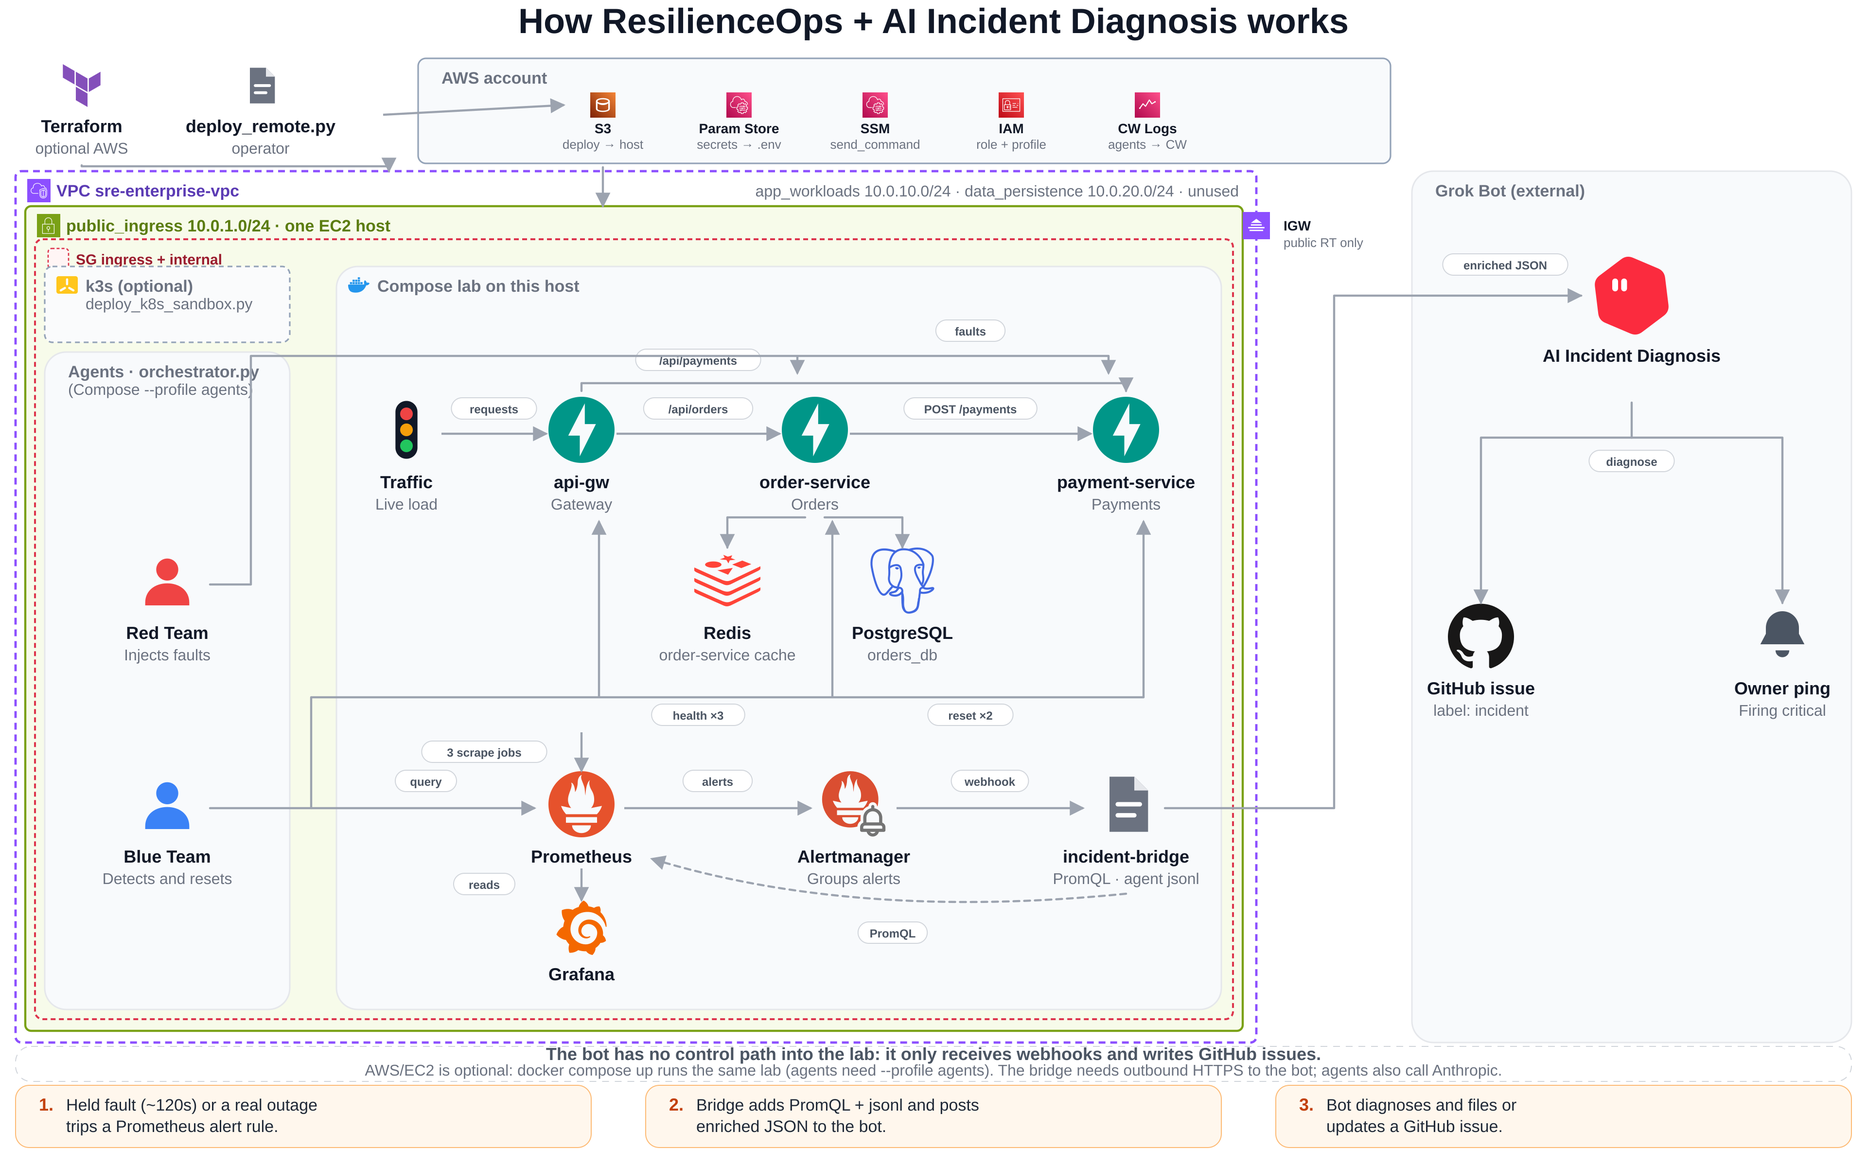
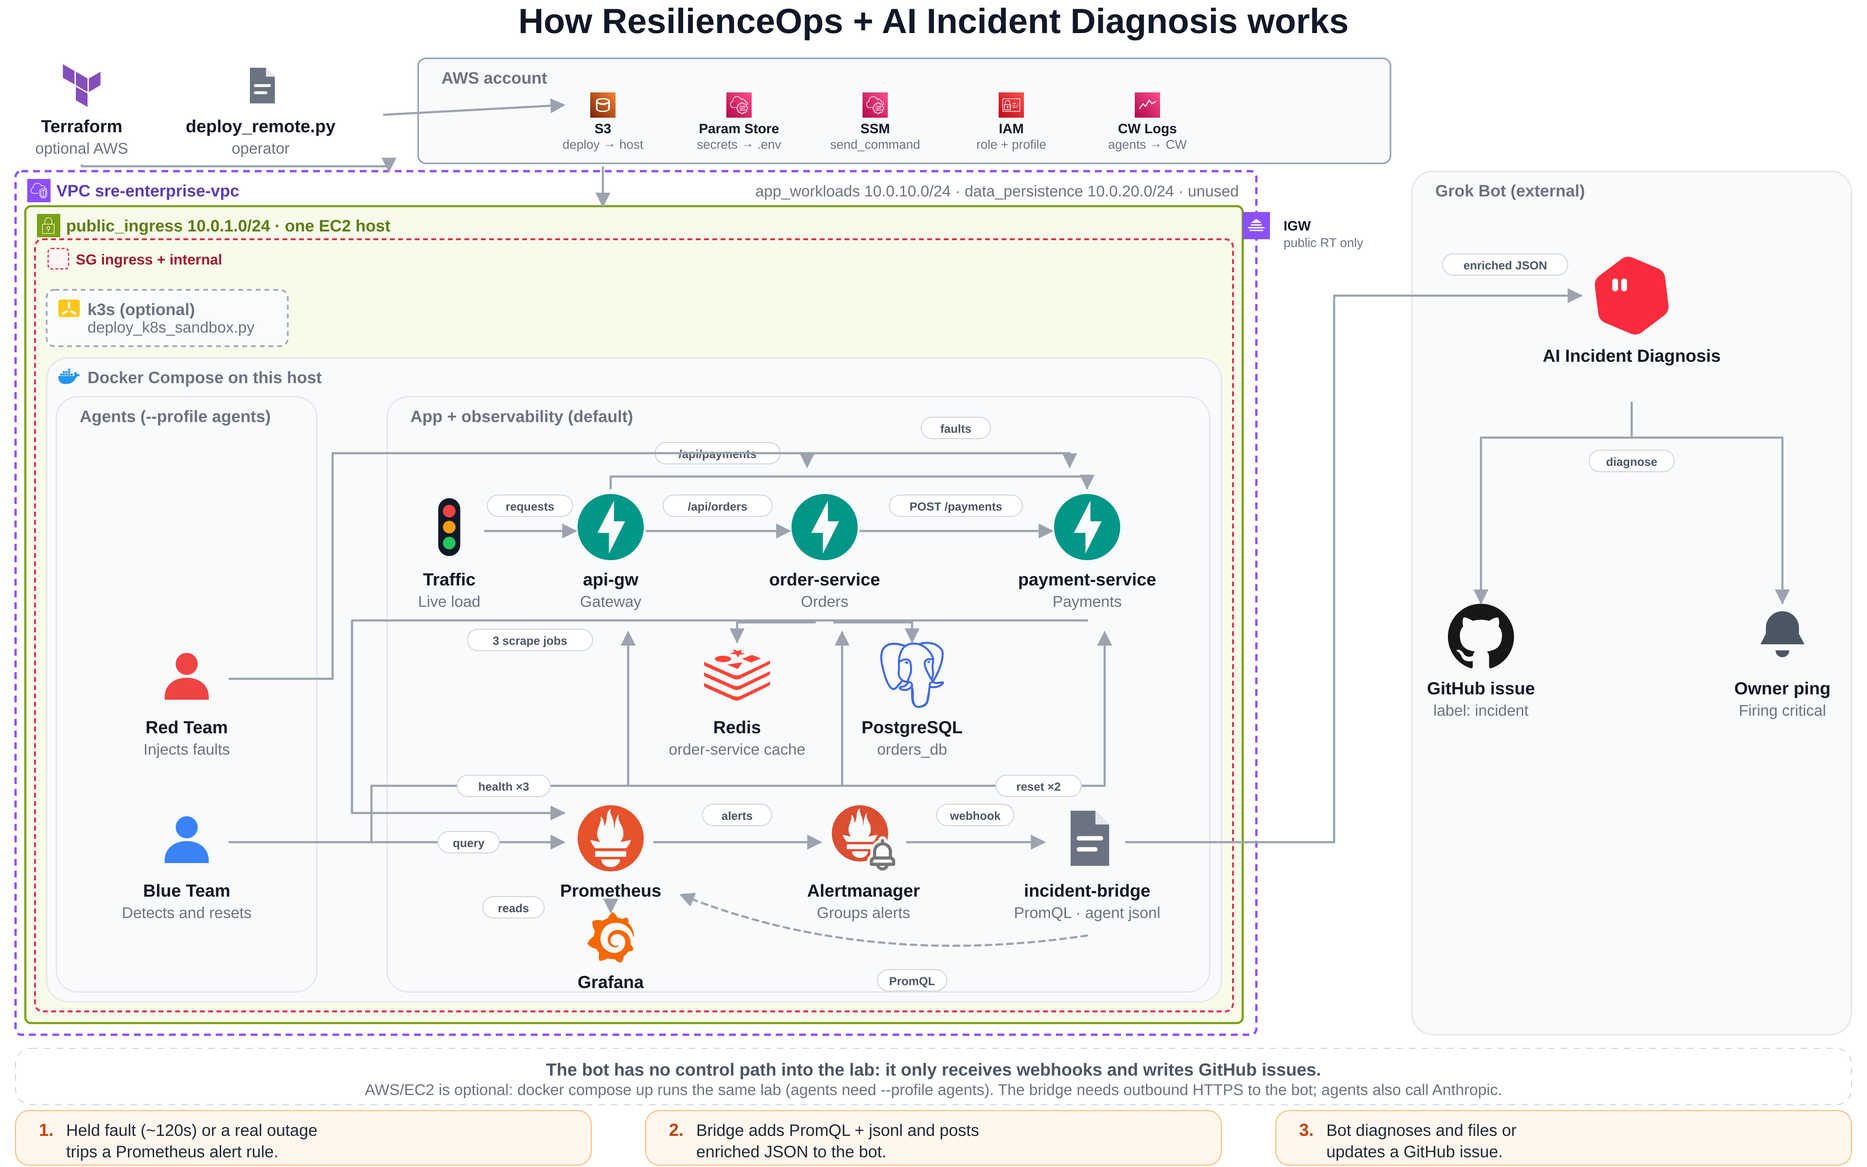
Fix remaining 2x architecture-figure overlaps and Compose nesting.
Route Red faults through the Agents/App gutter so the line never
crosses the Agents title. Nest Agents inside Docker Compose next to
App + observability. Draw scrape jobs from the three services, not the
Blue health bus. Pad the footer inside its dashed box and add gap
under the SG label.

diff --git a/scripts/build_architecture.py b/scripts/build_architecture.py
@@ -385,8 +385,10 @@ def build() -> str:
     s3_x, param_x, ssm_x, iam_x, cw_x = 620, 760, 900, 1040, 1180
     acct_node_y = 108  # icons; labels sit below inside the strip
 
-    vpc_x, vpc_y, vpc_w, vpc_h = 16, 176, 1276, 896  # right 1292, bottom 1072
-    bot_x, bot_y, bot_w, bot_h = 1452, 176, 452, 896  # gutter 160px for IGW labels
+    # VPC is 8px shorter than 896 so the footer box can sit *below* the
+    # purple stroke with padding, instead of kissing the VPC border.
+    vpc_x, vpc_y, vpc_w, vpc_h = 16, 176, 1276, 888  # right 1292, bottom 1064
+    bot_x, bot_y, bot_w, bot_h = 1452, 176, 452, 888  # gutter 160px for IGW labels
     col_bottom = vpc_y + vpc_h
 
     g_bot = group(bot_x, bot_y, bot_w, bot_h, "Grok Bot (external)")
@@ -419,38 +421,56 @@ def build() -> str:
         icon="aws-sg", style="sg",
     )
 
-    nested_y = sg_y + 28
-    nested_h = sg_y + sg_h - nested_y - 10
-    k3s_x, k3s_w = sg_x + 10, 252
-    lab_x = k3s_x + k3s_w + 48
-    lab_w = sg_x + sg_w - 12 - lab_x
-    # Two alley spines. Red climbs inside k3s (left). Blue climbs in the
-    # gutter (right). Horizontal segments never share an x with the other spine.
-    alley_blue = k3s_x + k3s_w + 22
-    alley_red = k3s_x + k3s_w - 40
-
-    k3s_opt_h = 78
+    # SG title baseline is sg_y+26. k3s top needs a real gap under that type
+    # (previously nested_y = sg_y+28 sat on the glyphs).
+    nested_y = sg_y + 52
+    k3s_x, k3s_w, k3s_opt_h = sg_x + 12, 248, 58
     g_k3s_opt = group(
         k3s_x, nested_y, k3s_w, k3s_opt_h,
         "k3s (optional)",
         icon="k3s", style="optional",
     )
-    agents_y = nested_y + k3s_opt_h + 10
-    agents_h = nested_y + nested_h - agents_y
-    g_k3s = group(
-        k3s_x, agents_y, k3s_w, agents_h,
-        "Agents · orchestrator.py",
+
+    # Outer Compose wraps Agents *and* the app stack. k3s stays outside it
+    # (deploy_k8s_sandbox.py is not a Compose service).
+    compose_x = sg_x + 12
+    compose_y = nested_y + k3s_opt_h + 12
+    compose_w = sg_w - 24
+    compose_h = sg_y + sg_h - compose_y - 10
+    g_compose = group(
+        compose_x, compose_y, compose_w, compose_h,
+        "Docker Compose on this host",
+        icon="docker",
     )
-    g_lab = group(lab_x, nested_y, lab_w, nested_h, "Compose lab on this host", icon="docker")
 
-    r1 = nested_y + 210  # Traffic / api-gw / order / payment (room above for Red flyover)
-    r2 = r1 + 155  # Redis + Postgres under order-service; Red Team in Agents
-    r3 = r2 + 230  # Prometheus → Alertmanager → incident-bridge; Blue Team
-    graf_y = nested_y + nested_h - 48  # keep Grafana name above the SG stroke
+    inner_y = compose_y + 40
+    inner_h = compose_y + compose_h - inner_y - 10
+    agents_x, agents_w = compose_x + 10, 268
+    app_x = agents_x + agents_w + 72
+    app_w = compose_x + compose_w - 12 - app_x
+    g_agents = group(
+        agents_x, inner_y, agents_w, inner_h,
+        "Agents (--profile agents)",
+    )
+    g_app = group(
+        app_x, inner_y, app_w, inner_h,
+        "App + observability (default)",
+    )
 
-    k3s_cx = k3s_x + k3s_w / 2
-    k3s_node_y = nested_y + LABEL_BAND + 8
-    tg_x, gw_x, os_x, ps_x = lab_x + 72, lab_x + 252, lab_x + 492, lab_x + 812
+    # Three alley spines in the Agents↔App gutter (never through box titles).
+    # Red climbs (left). Scrape drops (middle). Blue climbs (right).
+    alley_red = agents_x + agents_w + 16
+    alley_scrape = agents_x + agents_w + 36
+    alley_blue = app_x - 16
+
+    r1 = inner_y + 176  # Traffic / api-gw / order / payment (room above for Red flyover)
+    r2 = r1 + 152  # Redis + Postgres under order-service; Red Team in Agents
+    r3 = r2 + 168  # Prometheus → Alertmanager → incident-bridge; Blue Team
+    graf_y = inner_y + inner_h - 22  # keep Grafana name above the App stroke
+
+    k3s_cx = agents_x + agents_w / 2
+    # Keep payment-service / incident-bridge names inside the App stroke.
+    tg_x, gw_x, os_x, ps_x = app_x + 64, app_x + 230, app_x + 450, app_x + 720
     rd_x, pg_x = os_x - 90, os_x + 90
     prom_x, am_x, br_x = gw_x, os_x + 40, ps_x
     graf_x = prom_x
@@ -484,7 +504,7 @@ def build() -> str:
         node(prom_x, r3, "prometheus", "Prometheus", ""),
         node(am_x, r3, "alertmanager", "Alertmanager", "Groups alerts"),
         node(br_x, r3, "document", "incident-bridge", "PromQL · agent jsonl"),
-        node(graf_x, graf_y, "grafana", "Grafana", "", size=56),
+        node(graf_x, graf_y, "grafana", "Grafana", "", size=52),
         grok_avatar(bot_cx, bot_avatar_y, "AI Incident Diagnosis", ""),
         node(gh_x, bot_row_y, "github", "GitHub issue", "label: incident"),
         node(ping_x, bot_row_y, "bell", "Owner ping", "Firing critical"),
@@ -525,17 +545,14 @@ def build() -> str:
     parts.append(g_subnet)
     parts.append(g_sg)
     parts.append(g_k3s_opt)
-    parts.append(g_k3s)
-    parts.append(g_lab)
+    parts.append(g_compose)
+    parts.append(g_agents)
+    parts.append(g_app)
     parts.append(g_bot)
     # Subtitles that do not fit in the group title band.
     parts.append(
         f'  <text x="{k3s_x + 42:.0f}" y="{nested_y + 44:.0f}" class="cap">'
         "deploy_k8s_sandbox.py</text>"
-    )
-    parts.append(
-        f'  <text x="{k3s_x + 24:.0f}" y="{agents_y + 44:.0f}" class="cap">'
-        "(Compose --profile agents)</text>"
     )
     # Unused subnets live in the VPC but have no workloads today — caption on
     # the VPC box (not the public_ingress header). Left of the IGW gutter.
@@ -552,15 +569,17 @@ def build() -> str:
     k3s_right = k3s_cx + 44  # past the 68px person icon so shafts never clip Red/Blue
     db_top = _icon_top(r2)
     prom_top = _icon_top(r3)
-    graf_top = graf_y - 56 - 8  # Grafana is drawn at size 56, not ICON
-    pay_y = nested_y + 120
+    graf_top = graf_y - 52 - 8  # Grafana is drawn at size 52, not ICON
+    pay_y = inner_y + 82
     # Red flies over the services (above the /api/payments U-turn) and ticks
     # down into order-service and payment-service. Blue's health bus sits
     # *below* Redis/Postgres so those arrows can start at order-service.
-    red_y = nested_y + 92
-    svc_bottom = r1 + 52
-    health_y = r2 + 78  # well below Redis/Postgres captions (pills sit under the bus)
-    metrics_from = health_y + 36  # scrape starts below the Blue bus (no cross)
+    red_y = inner_y + 58
+    # Health ticks stop *below* the scrape collector so the two never share a
+    # y in the service columns (a full-height tick would cross the merge bar).
+    collector_y = r1 + 54  # under Gateway / Orders / Payments captions (below descenders)
+    svc_bottom = r1 + 66  # health-tick arrowheads; 18px below the scrape bar
+    health_y = r2 + 72  # well below Redis/Postgres captions (pills sit under the bus)
     host_top = subnet_y
 
     # 1. Terraform (operator laptop, outside AWS) → VPC border, *right of*
@@ -607,7 +626,7 @@ def build() -> str:
     # 6–7. order-service → Redis and PostgreSQL. Fork just below the
     # order-service caption, then drop into each datastore. Stays above
     # the Blue health bus (no crossing).
-    os_fork_y = r1 + 48
+    os_fork_y = r1 + 56
     parts.append(poly([
         (os_x - 10, os_fork_y),
         (rd_x, os_fork_y),
@@ -620,10 +639,10 @@ def build() -> str:
     ]))
 
     # 8. Red Team → order-service and payment-service (not Traffic). Climbs
-    # inside k3s (alley_red), flies over the service icons, then a short
-    # bracket ticks down into both targets. Pill sits *above* the flyover,
-    # between the ticks — not on the shaft and not under the Compose title.
-    # Does not cross Blue's spine (Blue is below the row).
+    # in the Agents↔App gutter (alley_red, *outside* the Agents title), flies
+    # over the service icons, then a short bracket ticks down into both
+    # targets. Pill sits *above* the flyover, between the ticks — not on the
+    # shaft and not under the App title. Does not cross Blue's spine.
     red_tick_end = pay_y - 10  # stop above the /api/payments U-turn; no crossing
     parts.append(poly([
         (k3s_right, red_ic),
@@ -633,7 +652,7 @@ def build() -> str:
     ], marked=False))
     parts.append(arrow(os_x - 18, red_y, os_x - 18, red_tick_end))
     parts.append(arrow(ps_x - 18, red_y, ps_x - 18, red_tick_end))
-    # Sit between the two ticks, above the flyover — not under the Compose title
+    # Sit between the two ticks, above the flyover — not under the App title
     # and not on the shaft.
     parts.append(pill((os_x + ps_x) / 2, red_y - 26, "faults"))
 
@@ -649,18 +668,27 @@ def build() -> str:
     parts.append(arrow(gw_x + 18, health_y, gw_x + 18, svc_bottom))
     parts.append(arrow(os_x + 18, health_y, os_x + 18, svc_bottom))
     parts.append(arrow(ps_x + 18, health_y, ps_x + 18, svc_bottom))
-    parts.append(pill((gw_x + os_x) / 2, health_y + 18, "health ×3"))
-    parts.append(pill((os_x + ps_x) / 2, health_y + 18, "reset ×2"))
+    # Sit on the health bus, clear of the observability-row pills (alerts / webhook).
+    parts.append(pill(gw_x - 110, health_y, "health ×3"))
+    parts.append(pill(ps_x - 50, health_y, "reset ×2"))
 
     # 10. Blue Team → Prometheus (query). T-junction at alley_blue; does not
     # cross Red's spine. Stays under Redis/Postgres.
     parts.append(arrow(alley_blue, blue_ic, prom_x - 48, blue_ic))
-    parts.append(pill(tg_x + 20, blue_ic - 28, "query"))
+    parts.append(pill(tg_x + 20, blue_ic, "query"))
 
-    # 11. Services → Prometheus. One vertical in the api-gw / Prometheus column.
-    parts.append(arrow(gw_x, metrics_from, gw_x, prom_top))
-    # Left of the scrape vertical, above Redis — never on the Redis icon.
-    parts.append(pill(gw_x - 100, (metrics_from + prom_top) / 2, "3 scrape jobs"))
+    # 11. Services → Prometheus. A merge bar sits *under the three service
+    # captions* (above Redis and above the Blue health ticks), drops the
+    # Agents↔App gutter (alley_scrape), and enters Prometheus from the left.
+    # Separate x from Blue's spine; separate y from the health bus.
+    parts.append(poly([
+        (ps_x, collector_y),
+        (alley_scrape, collector_y),
+        (alley_scrape, prom_top + 8),
+        (prom_x - 48, prom_top + 8),
+    ]))
+    # Below the collector in the Traffic / api-gw gap — not on "Live load", Redis, or the health bus.
+    parts.append(pill((tg_x + gw_x) / 2, collector_y + 20, "3 scrape jobs"))
 
     # 12–13. Observability row, left → right, short straight arrows.
     parts.append(arrow(prom_x + 44, blue_ic, am_x - 44, blue_ic))
@@ -675,8 +703,8 @@ def build() -> str:
 
     # 15. Bridge PromQL back to Prometheus. Dip under Alertmanager's caption
     # (empty), arrive at Prometheus from the right, above Grafana.
-    parts.append(arc(br_x, r3 + 50, am_x, r3 + 78, prom_x + 72, r3 + 14, dashed=True))
-    parts.append(pill(am_x + 40, r3 + 90, "PromQL"))
+    parts.append(arc(br_x, r3 + 58, am_x, r3 + 92, prom_x + 72, r3 + 16, dashed=True))
+    parts.append(pill(am_x + 50, r3 + 104, "PromQL"))
 
     # 16. Bridge → Grok avatar via the EC2/Grok gutter (orthogonal).
     hex_cy = bot_avatar_y - 32
@@ -701,26 +729,29 @@ def build() -> str:
     # does not sit on the T-junction.
     parts.append(pill(bot_cx, fork_y + 24, "diagnose"))
 
-    gate_y = col_bottom + 4
+    # Clear gap under the VPC stroke; type sits *inside* the dashed footer
+    # with padding so the bold line is not on the top border.
+    gate_y = col_bottom + 14
+    gate_h = 58
     parts.append(
-        f'  <rect x="16" y="{gate_y:.0f}" width="1888" height="36" rx="16" fill="#FFFFFF" '
+        f'  <rect x="16" y="{gate_y:.0f}" width="1888" height="{gate_h:.0f}" rx="16" fill="#FFFFFF" '
         f'stroke="#D1D5DB" stroke-dasharray="7 6"/>'
     )
     parts.append(
-        f'  <text x="960" y="{gate_y + 14:.0f}" text-anchor="middle" class="gate">'
+        f'  <text x="960" y="{gate_y + 28:.0f}" text-anchor="middle" class="gate">'
         "The bot has no control path into the lab: it only receives webhooks and writes GitHub issues.</text>"
     )
     parts.append(
-        f'  <text x="960" y="{gate_y + 30:.0f}" text-anchor="middle" class="gate-sub">'
+        f'  <text x="960" y="{gate_y + 48:.0f}" text-anchor="middle" class="gate-sub">'
         "AWS/EC2 is optional: docker compose up runs the same lab (agents need --profile agents). "
         "The bridge needs outbound HTTPS to the bot; agents also call Anthropic.</text>"
     )
 
-    card_y = gate_y + 40
+    card_y = gate_y + gate_h + 6
 
     def card2(n: int, x: float, line1: str, line2: str) -> str:
         return f"""  <g transform="translate({x:.0f},{card_y:.0f})">
-    <rect width="592" height="64" rx="14" fill="#FFF7ED" stroke="#FDBA74"/>
+    <rect width="592" height="56" rx="14" fill="#FFF7ED" stroke="#FDBA74"/>
     <text x="24" y="26" class="card-n">{n}.</text>
     <text x="52" y="26" class="card-t">{line1}</text>
     <text x="52" y="48" class="card-t">{line2}</text>

diff --git a/tests/test_docs_consistency.py b/tests/test_docs_consistency.py
@@ -166,7 +166,10 @@ def test_readme_sample_post_mortem_is_current_generator():
     assert "Grok Bot (external)" in svg
     assert "PromQL · agent jsonl" in svg
     assert "PromQL · jsonl · k8s" not in svg
-    assert "Agents · orchestrator.py" in svg
+    assert "Agents (--profile agents)" in svg
+    assert "Docker Compose on this host" in svg
+    assert "App + observability (default)" in svg
+    assert "Compose lab on this host" not in svg
     assert "k3s (optional)" in svg
     assert "diagnose" in svg
     assert "read-only" not in svg.lower()

diff --git a/docs/ACCURACY.md b/docs/ACCURACY.md
@@ -46,7 +46,7 @@ Compose + k3s, local vs AWS, optional fault injection, bot outbound HTTPS only.
 | Orchestrator `finally` reset ran before `alerts.yml` `for:` windows (up to 20s) could fire | `FAULT_HOLD_SECONDS` default 120 holds after detection / RCA and before Blue remediation; `finally` still always `FaultCatalog.reset_environment()` (`orchestrator.py`) |
 | k3s Blue PromQL failed: `deploy_k8s_sandbox.py` set `PROMETHEUS_URL=http://<private-ip>:9090` while Compose bound `127.0.0.1:9090` | Compose keeps loopback (SSM). `docker-compose.prom-lan.yml` + `PROMETHEUS_BIND=<private-ip>` on AWS. **No** `ingress_sg` rule for 9090 (only 3000/8000). Never `0.0.0.0` |
 | Figure/README claimed incident-bridge k8s evidence | Compose bridge has no `kubernetes` client and no kubeconfig (`services/incident-bridge/requirements.txt`). Evidence is PromQL + agent jsonl (jsonl only with `--profile agents`) |
-| Figure put Red/Blue in k3s; caption said `PromQL · jsonl · k8s`; Grok title `local or AWS`; footer called the bot read-only; unused CIDRs sat in `public_ingress`; Redis arrows started detached; pill `firing alerts` | Agents box `orchestrator.py (Compose --profile agents)`; small dashed `k3s (optional)`; Grok `Grok Bot (external)`; pill `diagnose`; unused CIDRs on the VPC; `public_ingress` labeled `10.0.1.0/24`; Redis/Postgres arrows from order-service; pill `alerts` |
+| Figure put Red/Blue in k3s; caption said `PromQL · jsonl · k8s`; Grok title `local or AWS`; footer called the bot read-only; unused CIDRs sat in `public_ingress`; Redis arrows started detached; pill `firing alerts` | Agents box inside `Docker Compose on this host` as `Agents (--profile agents)`; small dashed `k3s (optional)` outside Compose; Grok `Grok Bot (external)`; pill `diagnose`; unused CIDRs on the VPC; `public_ingress` labeled `10.0.1.0/24`; Redis/Postgres arrows from order-service; pill `alerts` |
 
 ---
 
@@ -61,8 +61,8 @@ Compose + k3s, local vs AWS, optional fault injection, bot outbound HTTPS only.
 | Public subnet group | Green, “public_ingress  10.0.1.0/24  ·  one EC2 host”, public-subnet icon | `terraform/main.tf` `aws_subnet.public_ingress` (only subnet with `map_public_ip_on_launch` and the only one associated with the public RT) |
 | SG around host | Dashed red “SG  ingress + internal” wrapping optional k3s + Compose | SGs `terraform/main.tf` `ingress_sg` / `internal_app_sg` |
 | k3s group | Small dashed “k3s (optional)” + `deploy_k8s_sandbox.py` | Optional path `deploy_k8s_sandbox.py`; k3s installed on the **same** EC2 `user_data` (`https://get.k3s.io`) |
-| Agents group | “Agents · orchestrator.py” + “(Compose --profile agents)” holds Red + Blue | One process: `orchestrator.py`. Compose service `agent-sandbox` `profiles: [agents]` `docker-compose.yml` |
-| Compose group | Nested “Compose lab on this host”, Docker icon | `docker-compose.yml` entire file; deploy zip includes compose (`deploy_remote.py` `INCLUDE_PATHS`) |
+| Agents group | Inner “Agents (--profile agents)” holds Red + Blue, inside Docker Compose | One process: `orchestrator.py`. Compose service `agent-sandbox` `profiles: [agents]` `docker-compose.yml` |
+| Compose group | Outer “Docker Compose on this host” wrapping Agents and “App + observability (default)” | `docker-compose.yml` entire file; deploy zip includes compose (`deploy_remote.py` `INCLUDE_PATHS`) |
 | Grok column | “Grok Bot (external)” | Imported template, not hosted in-repo. Bridge needs outbound HTTPS (`GROK_WEBHOOK_URL`); agents also call Anthropic |
 | Unused subnets | Caption on the **VPC** box: `app_workloads 10.0.10.0/24 · data_persistence 10.0.20.0/24 · unused` | Created `terraform/main.tf`; **no** `aws_instance` / RT assoc / SG attachment uses them (instance `subnet_id` is `public_ingress`) |
 
@@ -116,7 +116,7 @@ IAM has no chain arrow (Terraform creates the role + instance profile). SG is a 
 | 8 | Red Team → order-service **and** payment-service | `faults` | Infra faults hit order-service (`infra_disruptor.py:40-47`, catalog `/fault/leak-memory`, `/fault/redis-starvation`, `/fault/cpu-burn`, `/fault/crash`). Network faults hit payment-service (`fault_catalog.py:45-80` `/fault/latency`, `/fault/drop-rate` on `eth0`). **Not** Traffic. One flyover + two ticks; pill sits above the shaft (`build_architecture.py:576-591`) instead of one arrow per endpoint |
 | 9 | Blue Team → api-gw, order-service, payment-service | `health ×3` and `reset ×2` | `GET /health` on api-gw (4s), order, payment: `monitor.py:52-95`. Reset: `fault_catalog.py:122-132` POSTs `/fault/reset` on **order-service and payment-service only** (api-gw has no `/fault/reset`). Three ticks; two pills off the bus (`build_architecture.py:593-606`) |
 | 10 | Blue Team → Prometheus | `query` | `monitor.py:15-25`, `:98-110` PromQL if `PROMETHEUS_URL` answers |
-| 11 | Services → Prometheus | `3 scrape jobs` | `prometheus.yml:22-33` jobs `api-gw:8000`, `order-service:8001`, `payment-service:8002`; scrape `1s` `:2` |
+| 11 | Services → Prometheus | `3 scrape jobs` | `prometheus.yml:22-33` jobs `api-gw:8000`, `order-service:8001`, `payment-service:8002`; scrape `1s` `:2`. Merge bar under the three service captions, then the Agents↔App gutter into Prometheus — not from the Blue health bus |
 | 12 | Prometheus → Alertmanager | `alerts` | `prometheus.yml` `alertmanager:9093`; rules `dashboards/alerts.yml` |
 | 13 | Alertmanager → incident-bridge | `webhook` | `alertmanager.yml:14-16` `http://incident-bridge:8080/webhook` `send_resolved: true` |
 | 14 | Prometheus → Grafana | `reads` | Grafana is **not** on the alert path. Datasource provisioning `dashboards/provisioning/datasources/prometheus.yaml`. Host Grafana `:3000` (`docker-compose.yml:212`) |
@@ -258,7 +258,7 @@ Env-var inventory: every `os.getenv` / `_env_int` / `_env_float` name is in `.en
 | IAM has no arrow | Terraform creates the role + instance profile; drawing Terraform→IAM would cross the account strip |
 | One Red flyover + `faults` pill | Covers four order-service `/fault/*` plus two payment-service `tc netem` endpoints without six arrows |
 | Prometheus node has no caption | Space under the observability row is Grafana; scrape/rule detail is the `3 scrape jobs` / `alerts` pills |
-| One scrape arrow + `3 scrape jobs` | Three Prometheus jobs share one vertical |
+| One scrape edge + `3 scrape jobs` | Three Prometheus jobs share one merge bar under the service captions, then one gutter drop into Prometheus. Separate from Blue’s health/reset bus |
 | Grok `incident` label, duplicate-comment, owner ping | Implemented by the **imported** Grok template, not this repository. Samples #4/#5 show the behavior |
 | “Eliminates NAT ($32/mo) / EKS ($72/mo)” | Cost comparison: those resources are not in `main.tf`. Not a bill guarantee |
 | Teardown “under 60 seconds” / “100% protected” host daemons | Timing and absolute guarantees are not asserted by tests |
